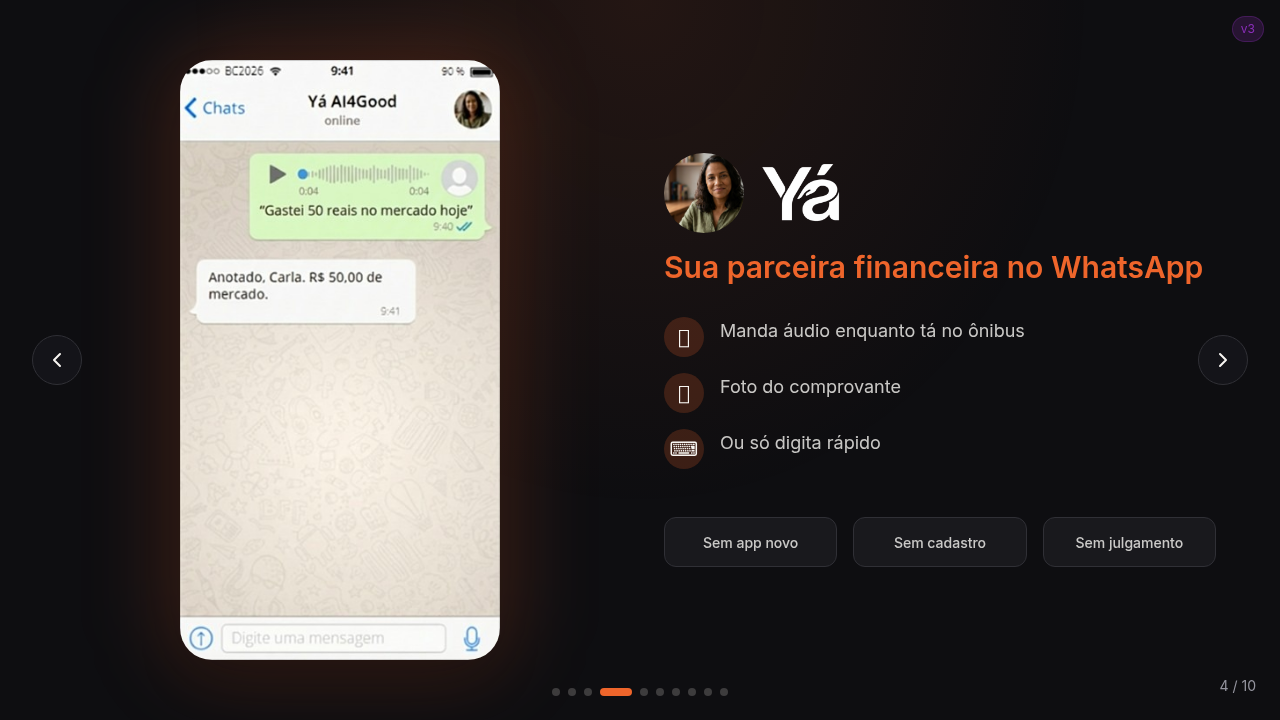
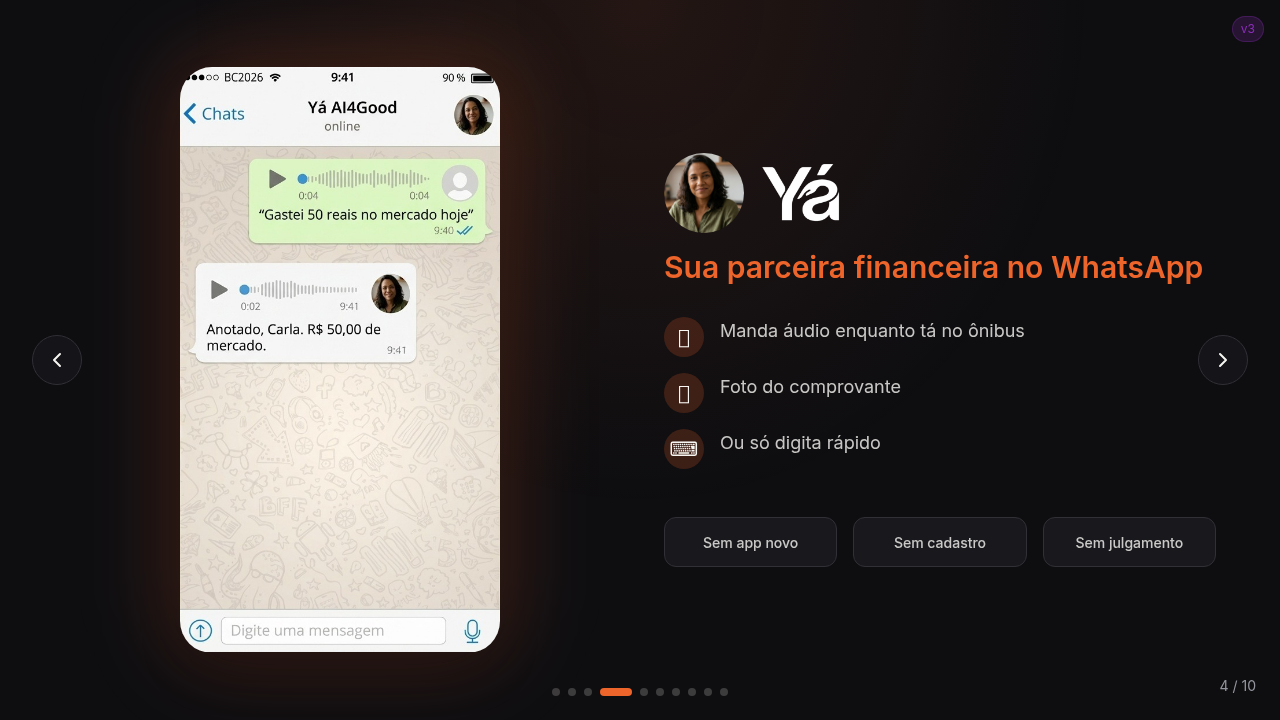
feat(presentation): replace WhatsApp mockup with full audio interaction screenshot in V3

Changed region(s): [[0.125, 0.0611, 0.4062, 0.5194], [0.125, 0.825, 0.4062, 0.9167], [0.5, 0.2139, 0.5938, 0.3361]]

diff --git a/src/components/presentation/v3/SlideSolution.tsx b/src/components/presentation/v3/SlideSolution.tsx
@@ -1,6 +1,6 @@
 import SlideContainer from "./SlideContainer";
-import personaImage from "@/assets/persona-image.jpeg";
-import whatsappMockup from "@/assets/whatsapp-chat-demo-audio.jpg";
+import personaImage from "@/assets/persona-image-v2.jpg";
+import whatsappMockup from "@/assets/whatsapp-chat-demo-audio-v2.jpg";
 import yaLogo from "@/assets/ya-logo.png";
 
 type TransitionType = "fade-zoom" | "slide-left" | "slide-right" | "slide-up" | "zoom-rotate" | "blur-scale";
